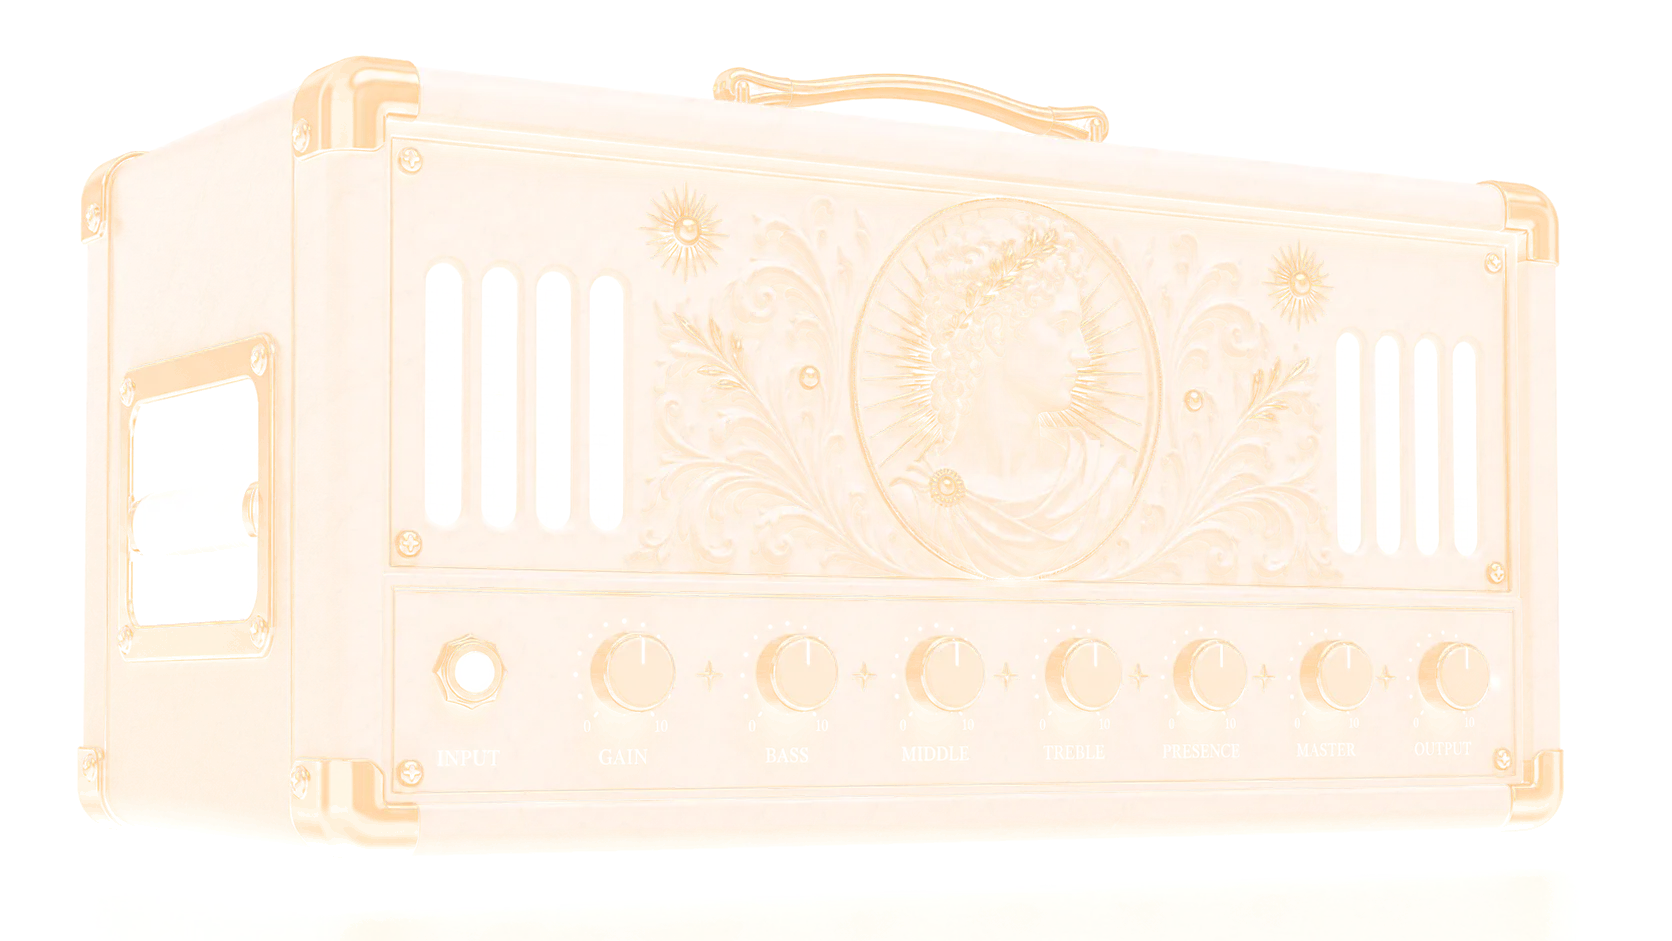
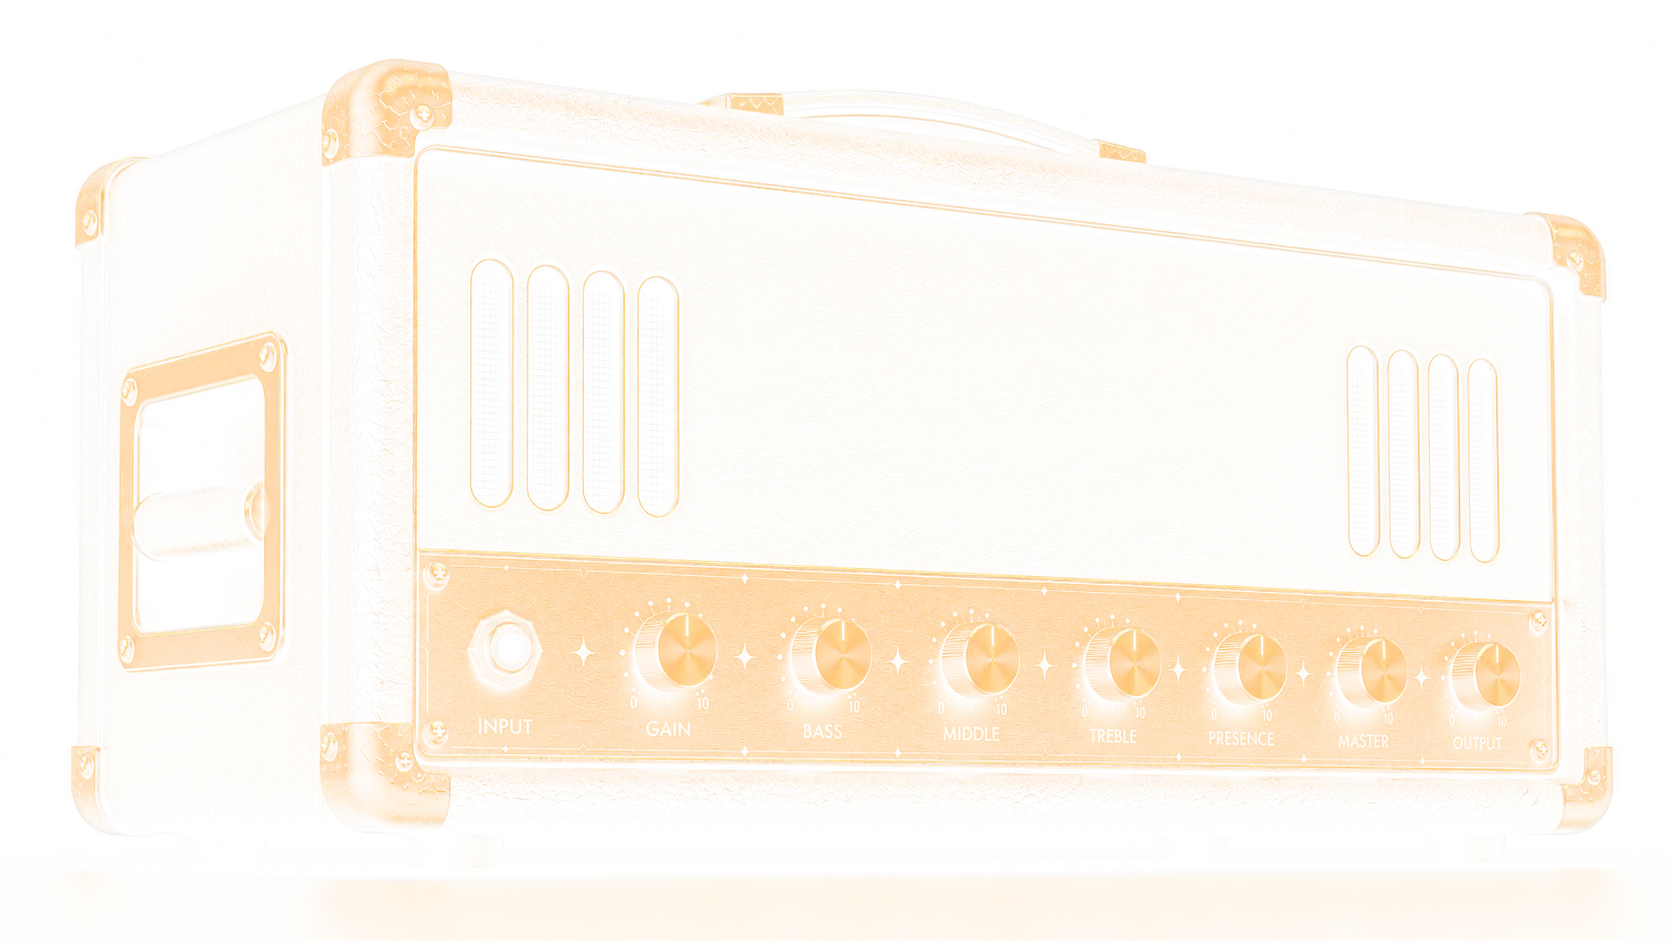
Portland goes black-and-gold
Swaps the marble-emperor head for the black tolex + gold render that now
ships in the plugin, and updates the copy that described the old one: alt
text on both pages, the social-card alt in index.html, and the amps
section's background tint (Portland's key colour was "gold-on-marble").

The head images are luminance-keyed RGBA so the amp composites over the
page's own background rather than sitting on a black rectangle, and this
one is keyed the same way — alpha = max(R,G,B) of the render, RGB
unpremultiplied. It costs more bytes than its siblings (954 KB vs ~300 KB)
because pebbled tolex is high-frequency where marble is smooth; the low
alpha region is blurred, since RGB is invisible in proportion to alpha
there, which is what keeps it under a megabyte.

Changed region(s): [[0.0311, 0.0616, 0.9641, 0.9245], [0.7464, 0.8629, 0.8708, 0.8937]]

diff --git a/index.html b/index.html
@@ -20,12 +20,12 @@
 <meta property="og:image" content="https://remidsp.com/assets/img/og-card.jpg" />
 <meta property="og:image:width" content="1200" />
 <meta property="og:image:height" content="630" />
-<meta property="og:image:alt" content="The Portland amplifier head — marble and gold, with a laurelled bust in relief" />
+<meta property="og:image:alt" content="The Portland amplifier head — black tolex and gold, with brass corners" />
 <meta name="twitter:card" content="summary_large_image" />
 <meta name="twitter:title" content="REMI DSP — Maine, the all-in-one guitar rig" />
 <meta name="twitter:description" content="Three amplifiers captured from the real things." />
 <meta name="twitter:image" content="https://remidsp.com/assets/img/og-card.jpg" />
-<meta name="twitter:image:alt" content="The Portland amplifier head — marble and gold, with a laurelled bust in relief" />
+<meta name="twitter:image:alt" content="The Portland amplifier head — black tolex and gold, with brass corners" />
 <meta name="theme-color" content="#050506" />
 <link rel="icon" href="/favicon.ico" sizes="48x48" />
 <link rel="icon" type="image/png" href="assets/img/icon-256.png" />
@@ -124,7 +124,7 @@
       <img class="rig__amp is-active" src="assets/img/amp-head-camden.webp" width="1672" height="941"
            fetchpriority="high" alt="Camden — a cream-and-gold amplifier head with a stained-glass front panel" />
       <img class="rig__amp" src="assets/img/amp-head-portland.webp" width="1672" height="941"
-           loading="lazy" alt="Portland — a marble amplifier head with a gold laurelled bust in relief" />
+           loading="lazy" alt="Portland — a black tolex amplifier head with a gold control plate and brass corners" />
       <img class="rig__amp" src="assets/img/amp-head-katahdin.webp" width="1672" height="941"
            loading="lazy" alt="Katahdin — an amplifier head carved with baroque cherubs playing lutes" />
       <span class="rig__sheen" aria-hidden="true"></span>

diff --git a/js/main.js b/js/main.js
@@ -160,7 +160,7 @@
   const marqTracks= $$(".marquee__track");
 
   // Camden / Portland / Katahdin — keyed to each head's own colour: Camden's
-  // cool seafoam, Portland's gold-on-marble, Katahdin's warm carving. Shared by
+  // cool seafoam, Portland's gold-on-black, Katahdin's warm carving. Shared by
   // the home rig hero and the Maine amps section, which show the same three amps.
   const AMP_BGS   = ["#05090b", "#0b0906", "#0b0705"];
   const CARD_BGS  = ["#0d0a04", "#0e0704", "#04100f", "#060a12"]; // drive/chorus/delay/reverb
@@ -353,7 +353,7 @@
     const tabs  = $$("#rigTabs button");
     const vsets = $$(".rig__voiceset");
     // [halo, falloff] — pulled off each head: Camden's seafoam panel, Portland's
-    // gold-on-marble, Katahdin's warm cherub carving.
+    // gold-on-black, Katahdin's warm cherub carving.
     const GLOW  = [["#8fd8cf", "#4a8f96"], ["#e8c877", "#8f6f2e"], ["#e0a878", "#96552e"]];
     const PERIOD = 5200;
 

diff --git a/guitar.html b/guitar.html
@@ -231,7 +231,7 @@
             <img class="amps__face is-active" src="assets/img/amp-head-camden.webp" width="1672" height="941"
                  alt="Camden — a cream-and-gold amplifier head with a stained-glass front panel" />
             <img class="amps__face" src="assets/img/amp-head-portland.webp" width="1672" height="941"
-                 alt="Portland — a marble amplifier head with a gold laurelled bust in relief" loading="lazy" />
+                 alt="Portland — a black tolex amplifier head with a gold control plate and brass corners" loading="lazy" />
             <img class="amps__face" src="assets/img/amp-head-katahdin.webp" width="1672" height="941"
                  alt="Katahdin — an amplifier head carved with baroque cherubs playing lutes" loading="lazy" />
           </div>